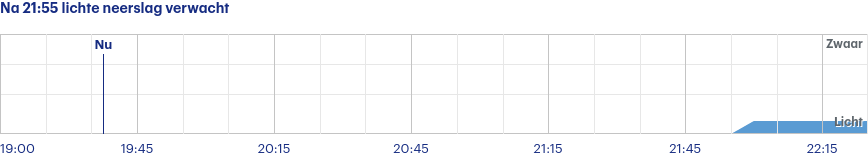
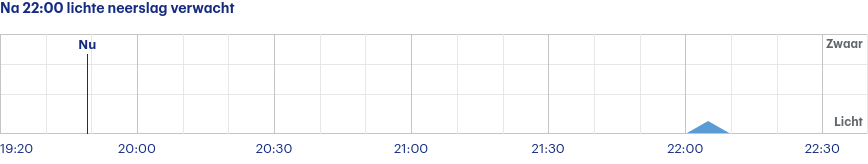
Latest scraping buienradar: Mon Jun 19 17:40:39 UTC 2023

diff --git a/scrapes/buienradar/buienradar-jette-3-uur.md b/scrapes/buienradar/buienradar-jette-3-uur.md
@@ -1,4 +1,4 @@
-Na 21:55 lichte neerslag verwacht
+Na 22:00 lichte neerslag verwacht
 
 ![](buienradar-jette-3-uur.png)
 
